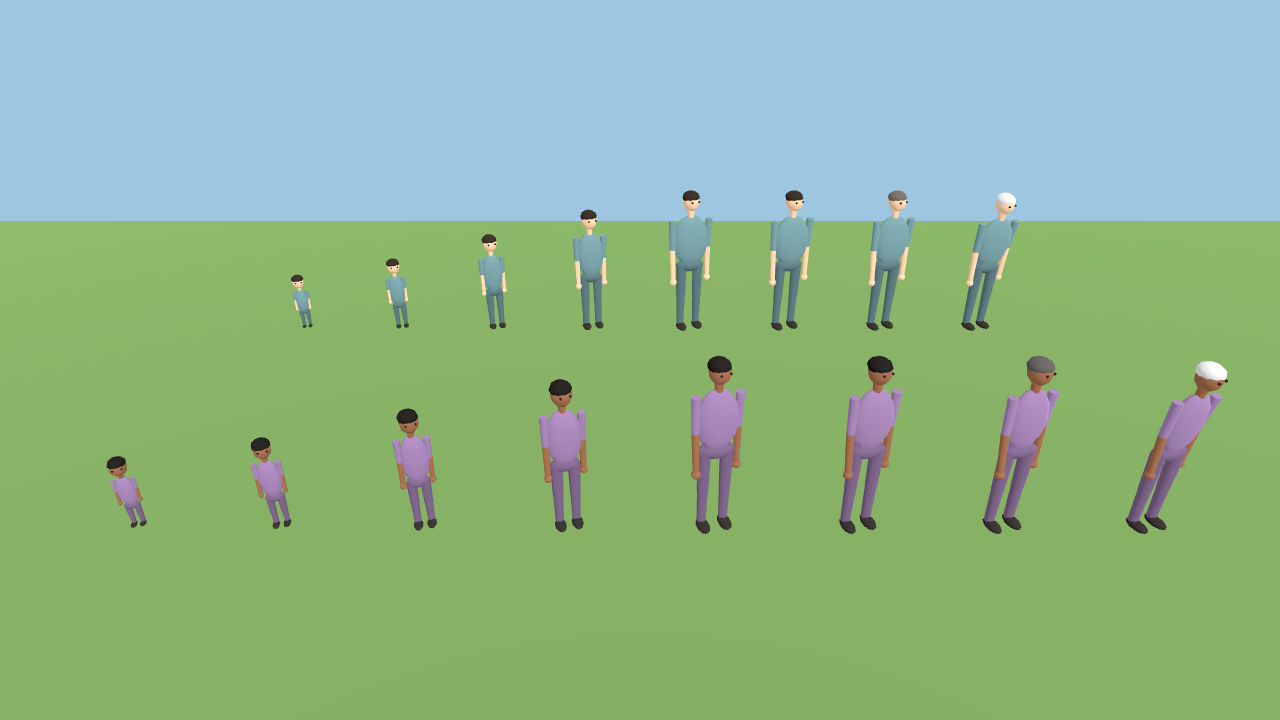
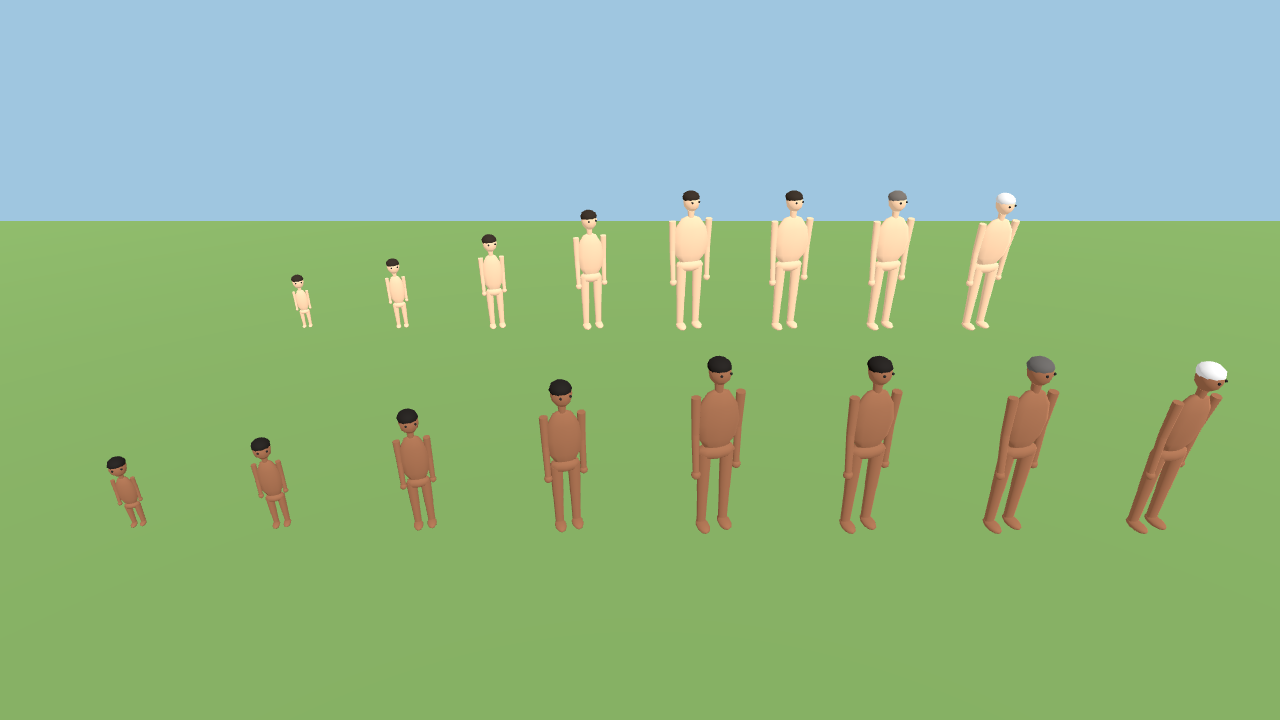
Viewers draw people bare by default; clothing colour only on request
Nothing in the simulation makes or wears clothes (clothing_color is a recorded colour no rule uses),
so Godot and the browser viewer no longer imply tailoring. --clothing / ?clothing=1 paints the recorded colour.

Claude-Session: https://claude.ai/code/session_0133zWR1BdYD94h1dPYdQjZd

diff --git a/web/viewer.js b/web/viewer.js
@@ -1,5 +1,6 @@
 const $=id=>document.getElementById(id);
 import {createAnimalModel,animateAnimalModel} from './animal-models.mjs';
+const SHOW_CLOTHING=new URLSearchParams(location.search).get('clothing')==='1';
 
 let world,selected='',replay=false,following=false,cursor=0,events=[];
 
@@ -49,11 +50,11 @@ function person(a){
 
  function part(name,geometry,color,x,y,z,parent=root){const m=new THREE.Mesh(geometry,new THREE.MeshStandardMaterial({color,roughness:.9}));m.position.set(x,y,z);m.name=name;parent.add(m);return m;}
 
- const skin=a.skin_tone||'#bd8c68',cloth=a.id===selected?'#e5bf64':a.clothing_color||'#678b91';
+ const skin=a.skin_tone||'#bd8c68',cloth=a.id===selected?'#e5bf64':(SHOW_CLOTHING?a.clothing_color||'#678b91':skin),lowerWear=SHOW_CLOTHING?'#3f4b48':skin,legWear=SHOW_CLOTHING?'#435352':skin;/* nothing in the world makes clothes, so people are drawn bare unless ?clothing=1 */
 
  part('torso',new THREE.BoxGeometry(.46,.57,.25),cloth,0,1.15,0);
 
- part('pelvis',new THREE.BoxGeometry(.43,.2,.24),'#3f4b48',0,.79,0);
+ part('pelvis',new THREE.BoxGeometry(.43,.2,.24),lowerWear,0,.79,0);
 
  part('neck',new THREE.CylinderGeometry(.07,.08,.13,6),skin,0,1.49,0);
 
@@ -77,11 +78,11 @@ function person(a){
 
   part('thumb',new THREE.BoxGeometry(.025,.055,.025),skin,side*.39,.73,.02);
 
-  part('thigh',new THREE.CapsuleGeometry(.095,.23,3,5),'#435352',side*.125,.59,0);
+  part('thigh',new THREE.CapsuleGeometry(.095,.23,3,5),legWear,side*.125,.59,0);
 
-  part('lower leg',new THREE.CapsuleGeometry(.075,.22,3,5),'#435352',side*.125,.26,0);
+  part('lower leg',new THREE.CapsuleGeometry(.075,.22,3,5),legWear,side*.125,.26,0);
 
-  part('foot',new THREE.BoxGeometry(.16,.12,.30),'#403a31',side*.125,.065,.07);
+  part('foot',new THREE.BoxGeometry(.16,.12,.30),SHOW_CLOTHING?'#403a31':skin,side*.125,.065,.07);
 
  }
 

diff --git a/tests/test_godot_assets.py b/tests/test_godot_assets.py
@@ -206,3 +206,12 @@ def test_the_godot_client_asks_for_ticks_with_get_only():
     for path in GODOT_DIR.glob("*.gd"):
         text = path.read_text(encoding="utf-8")
         assert "METHOD_POST" not in text and "METHOD_PUT" not in text and "METHOD_DELETE" not in text, path.name
+
+
+def test_viewers_draw_people_bare_unless_asked_because_the_world_has_no_clothing():
+    """Clothing is only a recorded colour with no rule behind it, so it is shown only on request (--clothing / ?clothing=1)."""
+    human = (GODOT_DIR / "human.gd").read_text(encoding="utf-8")
+    assert "static var show_clothing := false" in human
+    assert '"--clothing"' in (GODOT_DIR / "main.gd").read_text(encoding="utf-8")
+    web = (ROOT / "web" / "viewer.js").read_text(encoding="utf-8")
+    assert "get('clothing')==='1'" in web and "SHOW_CLOTHING?" in web

diff --git a/godot/README.md b/godot/README.md
@@ -29,6 +29,12 @@ This is only a picture of what the simulation published; inhabitants are told no
 `--server=URL` `--poll=SECONDS` `--select=agent-0003` `--focus=agent-0003|<animal id>|animals` and, for automated checks, `--screenshot=out.png --wait=SECONDS`
 (saves a frame after that many seconds of live data and quits). Playback only: `--start-tick=N` and `--paused`.
 
+## Clothing
+Nothing in the simulation makes, wears or loses clothes: each person only carries a recorded `clothing_color` that no rule uses. So both viewers
+draw people **bare by default** (skin on every part, feet included) rather than imply a civilisation's tailoring that the world has not
+earned. `--clothing` (Godot) or `?clothing=1` (browser viewer) paints that recorded colour as a plain tunic and trousers.
+If a clothing mechanic is ever added it must be a physical rule (materials worn on the body), and the viewers should then draw what is worn.
+
 ## People who grow
 Every person is built from primitives (`human.gd`) using the simulation's recorded `age_years`, `height_cm`, gender, skin tone and
 clothing, so one person visibly grows: an infant's head is about a quarter of their height, a child's legs are short, an adolescent
